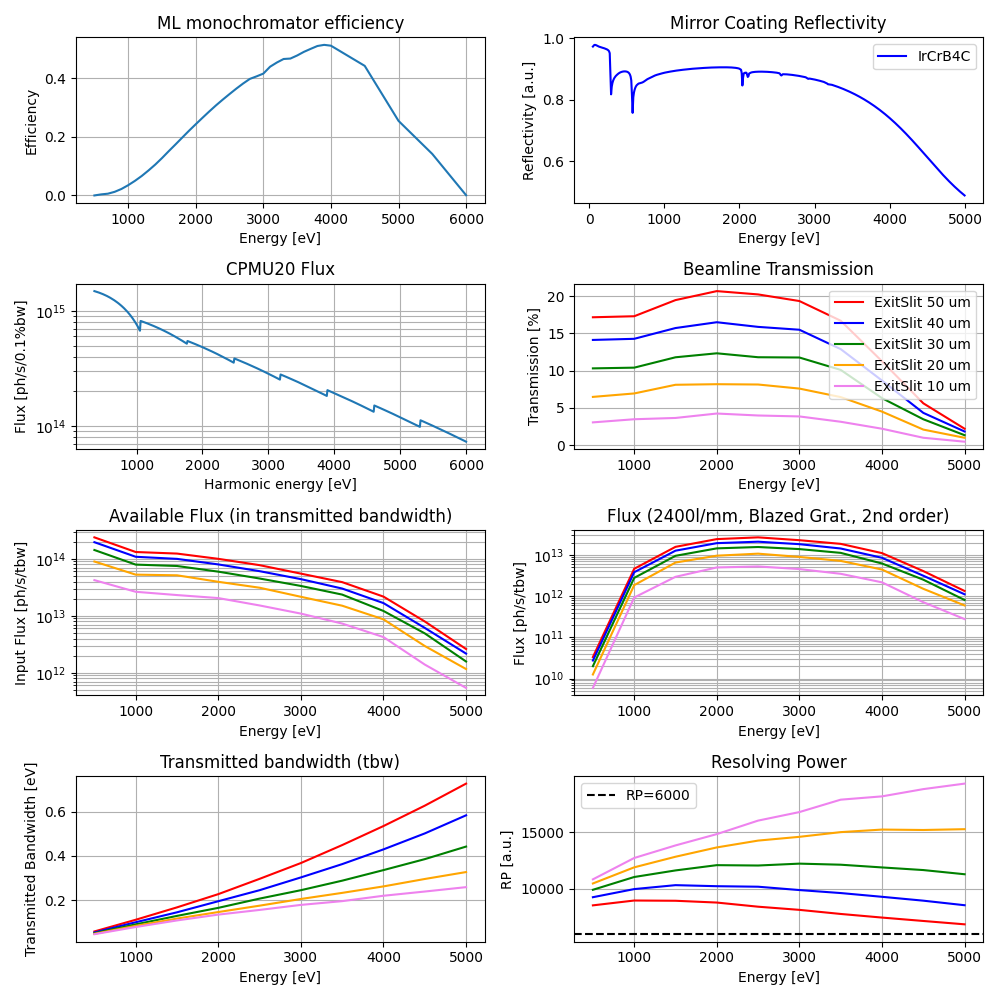
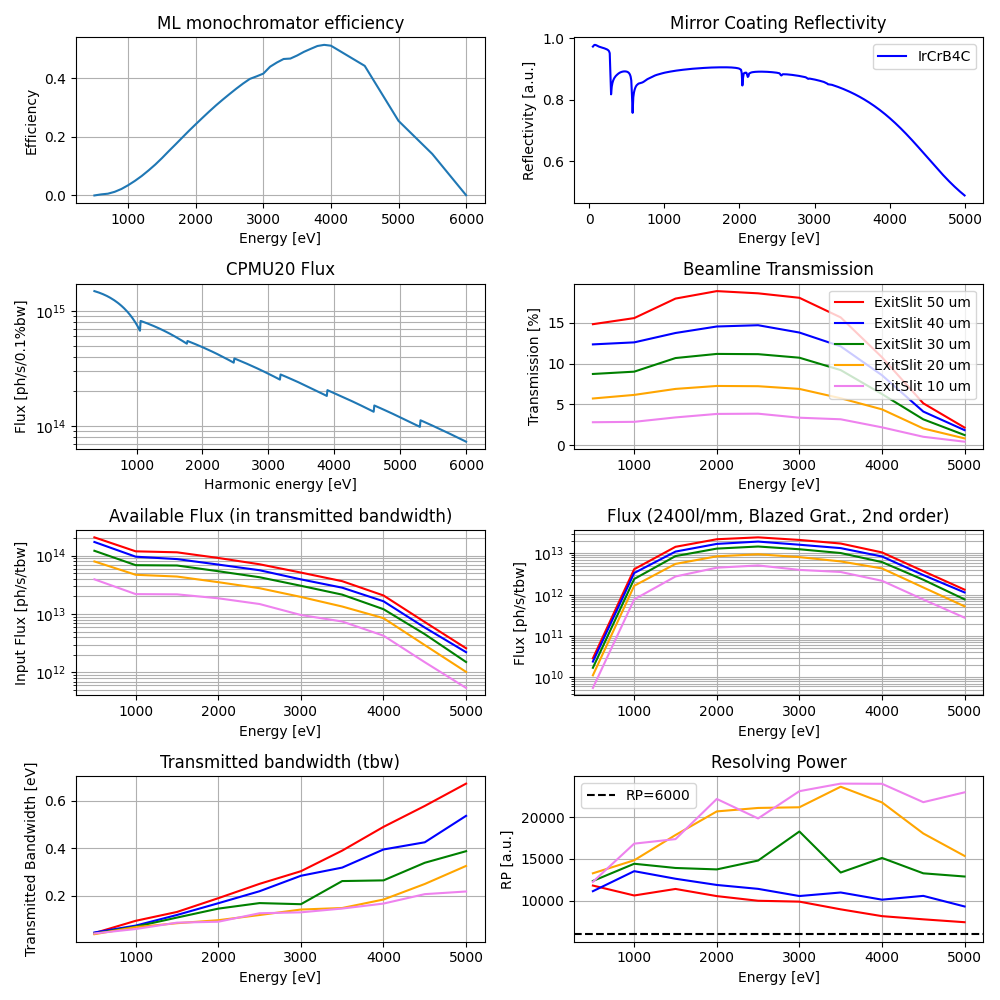
use parameter file for simulations

diff --git a/simulation/1/produce_plot.py b/simulation/1/produce_plot.py
@@ -14,7 +14,12 @@ from raypyng.postprocessing import PostProcessAnalyzed
 
 # from helper library
 from helper_lib import get_reflectivity
-from helper_lib import scale_undulator_flux, order
+from helper_lib import scale_undulator_flux, order as undulator_order
+
+
+from params import order as grating_order, energy_rp, energy_flux, SlitSize
+from params import index, repeat_rp, repeat_flux
+from params import ncpu_rp as ncpu
 
 # define undulator file
 undulator_file = os.path.join('undulator', 'CPMU20_B2l_k_dep_simp_all_harm_300mA.dbr')
@@ -30,38 +35,33 @@ ppa = PostProcessAnalyzed()
 folder_name  = 'RAYPy_Simulation_FLUX_battery_FLUX_forML_IrCrB4C'
 source       = 'CPMU20'
 oe           = 'DetectorAtFocus'
-energy    = np.arange(500,5001,500)
-SlitSize  = np.array([0.05,0.04,0.03,0.02,0.01])
-nsim      = energy.shape[0]*SlitSize.shape[0]
+nsim         = energy_flux.shape[0]*SlitSize.shape[0]
 
-flux_percent_unordered = ppa.retrieve_flux_beamline(folder_name, source, oe, nsim, rounds=1, current=0.3)
-flux_percent           = order(flux_percent_unordered)
+flux_percent_unordered = ppa.retrieve_flux_beamline(folder_name, source, oe, nsim, rounds=repeat_flux, current=0.3)
+flux_percent           = undulator_order(flux_percent_unordered)
 
-ens = energy.shape[0]
+ens = energy_flux.shape[0]
 flux_percent_50 = flux_percent[0*ens:1*ens]
 flux_percent_40 = flux_percent[1*ens:2*ens]
 flux_percent_30 = flux_percent[2*ens:3*ens]
 flux_percent_20 = flux_percent[3*ens:4*ens]
 flux_percent_10 = flux_percent[4*ens:5*ens]
 
-flux_abs_50 = scale_undulator_flux(energy,flux_percent_50, undulator_file)
-flux_abs_40 = scale_undulator_flux(energy,flux_percent_40, undulator_file)
-flux_abs_30 = scale_undulator_flux(energy,flux_percent_30, undulator_file)
-flux_abs_20 = scale_undulator_flux(energy,flux_percent_20, undulator_file)
-flux_abs_10 = scale_undulator_flux(energy,flux_percent_10, undulator_file)
+flux_abs_50 = scale_undulator_flux(energy_flux,flux_percent_50, undulator_file)
+flux_abs_40 = scale_undulator_flux(energy_flux,flux_percent_40, undulator_file)
+flux_abs_30 = scale_undulator_flux(energy_flux,flux_percent_30, undulator_file)
+flux_abs_20 = scale_undulator_flux(energy_flux,flux_percent_20, undulator_file)
+flux_abs_10 = scale_undulator_flux(energy_flux,flux_percent_10, undulator_file)
 
 ### ML RP
-energy_ml_rp = np.arange(500,5001,500)
-SlitSize  = np.array([0.05,0.04,0.03,0.02,0.01])
-rounds      = 10
 folder_name = 'RAYPy_Simulation_RP_battery_FLUX_forML_IrCrB4C'
 oe          = 'DetectorAtFocus'
-nsim      = energy_ml_rp.shape[0]*SlitSize.shape[0]
+nsim        = energy_rp.shape[0]*SlitSize.shape[0]
 
-bw_ML_2400_2_un, focx_ML_2400_2_un, focy_ML_2400_2_un = ppa.retrieve_bw_and_focusSize(folder_name, oe, nsim, rounds=rounds)
-bw_ML_2400_2 = order(bw_ML_2400_2_un)
-focx_ML_2400_2= order(focx_ML_2400_2_un)
-focy_ML_2400_2 = order(focy_ML_2400_2_un)
+bw_ML_2400_2_un, focx_ML_2400_2_un, focy_ML_2400_2_un = ppa.retrieve_bw_and_focusSize(folder_name, oe, nsim, rounds=repeat_rp)
+bw_ML_2400_2    = undulator_order(bw_ML_2400_2_un)
+focx_ML_2400_2  = undulator_order(focx_ML_2400_2_un)
+focy_ML_2400_2  = undulator_order(focy_ML_2400_2_un)
 
 # Undulator SPECTRA
 undulator = np.loadtxt(undulator_file, skiprows=8)
@@ -69,24 +69,24 @@ undulator = np.loadtxt(undulator_file, skiprows=8)
 
 # scaling
 flux_abs_50_MLBG_mfm_second = ML_eff(flux_abs_50, 
-                                    ind='MLBG_mfm_second', 
-                                    energy=energy,
+                                    ind=index, 
+                                    energy=energy_flux,
                                     grating_eff_file=grating_eff_file)
 flux_abs_40_MLBG_mfm_second = ML_eff(flux_abs_40, 
-                                    ind='MLBG_mfm_second', 
-                                    energy=energy,
+                                    ind=index, 
+                                    energy=energy_flux,
                                     grating_eff_file=grating_eff_file)
 flux_abs_30_MLBG_mfm_second = ML_eff(flux_abs_30, 
-                                    ind='MLBG_mfm_second', 
-                                    energy=energy,
+                                    ind=index, 
+                                    energy=energy_flux,
                                     grating_eff_file=grating_eff_file)
 flux_abs_20_MLBG_mfm_second = ML_eff(flux_abs_20, 
-                                    ind='MLBG_mfm_second', 
-                                    energy=energy,
+                                    ind=index, 
+                                    energy=energy_flux,
                                     grating_eff_file=grating_eff_file)
 flux_abs_10_MLBG_mfm_second = ML_eff(flux_abs_10, 
-                                    ind='MLBG_mfm_second', 
-                                    energy=energy,
+                                    ind=index, 
+                                    energy=energy_flux,
                                     grating_eff_file=grating_eff_file)
 
 
@@ -97,9 +97,9 @@ fig, (axs) = plt.subplots(4, 2,figsize=(10,10))
 
 # text
 ax = axs[0,0]
-en       = extract_from_Andrey('MLBG_mfm_second', 'energy', ML_eff_file)
-grat_eff = extract_from_Andrey('MLBG_mfm_second', 'grat_eff', ML_eff_file)
-mirr_eff = extract_from_Andrey('MLBG_mfm_second', 'mir_eff', ML_eff_file)
+en       = extract_from_Andrey(index, 'energy', ML_eff_file)
+grat_eff = extract_from_Andrey(index, 'grat_eff', ML_eff_file)
+mirr_eff = extract_from_Andrey(index, 'mir_eff', ML_eff_file)
 eff = grat_eff*mirr_eff
 ax.plot(en, eff)
 ax.set_ylabel('Efficiency')
@@ -141,11 +141,11 @@ ax.set_title('CPMU20 Flux')
 
 # PERCENTAGE FLUX
 ax = axs[1,1]
-ax.plot(energy,flux_percent_50, 'r', label='ExitSlit 50 um' )
-ax.plot(energy,flux_percent_40, 'b', label='ExitSlit 40 um' )
-ax.plot(energy,flux_percent_30, 'g', label='ExitSlit 30 um' )
-ax.plot(energy,flux_percent_20, 'orange', label='ExitSlit 20 um' )
-ax.plot(energy,flux_percent_10, 'violet', label='ExitSlit 10 um' )
+ax.plot(energy_flux,flux_percent_50, 'r', label='ExitSlit 50 um' )
+ax.plot(energy_flux,flux_percent_40, 'b', label='ExitSlit 40 um' )
+ax.plot(energy_flux,flux_percent_30, 'g', label='ExitSlit 30 um' )
+ax.plot(energy_flux,flux_percent_20, 'orange', label='ExitSlit 20 um' )
+ax.plot(energy_flux,flux_percent_10, 'violet', label='ExitSlit 10 um' )
 
 ax.set_xlabel(r'Energy [eV]')
 ax.set_ylabel('Transmission [%]')
@@ -157,11 +157,11 @@ ax.legend()
 # ABSOLUTE FLUX
 ax = axs[2,0]
 
-ax.plot(energy,flux_abs_50, 'r', label='ExitSlit 50 um' )
-ax.plot(energy,flux_abs_40, 'b', label='ExitSlit 40 um' )
-ax.plot(energy,flux_abs_30, 'g', label='ExitSlit 30 um' )
-ax.plot(energy,flux_abs_20, 'orange', label='ExitSlit 20 um' )
-ax.plot(energy,flux_abs_10, 'violet', label='ExitSlit 10 um' )
+ax.plot(energy_flux,flux_abs_50, 'r', label='ExitSlit 50 um' )
+ax.plot(energy_flux,flux_abs_40, 'b', label='ExitSlit 40 um' )
+ax.plot(energy_flux,flux_abs_30, 'g', label='ExitSlit 30 um' )
+ax.plot(energy_flux,flux_abs_20, 'orange', label='ExitSlit 20 um' )
+ax.plot(energy_flux,flux_abs_10, 'violet', label='ExitSlit 10 um' )
 
 ax.set_xlabel(r'Energy [eV]')
 ax.set_ylabel('Input Flux [ph/s/tbw]')
@@ -173,11 +173,11 @@ ax.grid(which='both', axis='both')
 # ABSOLUTE FLUX SCALED WITH ML EFF.
 ax = axs[2,1]
 
-ax.plot(energy,flux_abs_50_MLBG_mfm_second, 'r', label='ExitSlit 50 um' )
-ax.plot(energy,flux_abs_40_MLBG_mfm_second, 'b', label='ExitSlit 40 um' )
-ax.plot(energy,flux_abs_30_MLBG_mfm_second, 'g', label='ExitSlit 30 um' )
-ax.plot(energy,flux_abs_20_MLBG_mfm_second, 'orange', label='ExitSlit 20 um' )
-ax.plot(energy,flux_abs_10_MLBG_mfm_second, 'violet', label='ExitSlit 10 um' )
+ax.plot(energy_flux,flux_abs_50_MLBG_mfm_second, 'r', label='ExitSlit 50 um' )
+ax.plot(energy_flux,flux_abs_40_MLBG_mfm_second, 'b', label='ExitSlit 40 um' )
+ax.plot(energy_flux,flux_abs_30_MLBG_mfm_second, 'g', label='ExitSlit 30 um' )
+ax.plot(energy_flux,flux_abs_20_MLBG_mfm_second, 'orange', label='ExitSlit 20 um' )
+ax.plot(energy_flux,flux_abs_10_MLBG_mfm_second, 'violet', label='ExitSlit 10 um' )
 
 ax.set_xlabel(r'Energy [eV]')
 ax.set_ylabel('Flux [ph/s/tbw]')
@@ -188,12 +188,12 @@ ax.grid(which='both', axis='both')
 
 # BANDWIDTH
 ax = axs[3,0]
-ss = energy_ml_rp.shape[0]
-ax.plot(energy_ml_rp,bw_ML_2400_2[0*ss:1*ss],'r',label='ExitSlit 50 um')
-ax.plot(energy_ml_rp,bw_ML_2400_2[1*ss:2*ss],'b',label='ExitSlit 40 um')
-ax.plot(energy_ml_rp,bw_ML_2400_2[2*ss:3*ss],'g',label='ExitSlit 30 um')
-ax.plot(energy_ml_rp,bw_ML_2400_2[3*ss:4*ss],'orange',label='ExitSlit 20 um')
-ax.plot(energy_ml_rp,bw_ML_2400_2[4*ss:5*ss],'violet',label='ExitSlit 10 um')
+ss = energy_rp.shape[0]
+ax.plot(energy_rp,bw_ML_2400_2[0*ss:1*ss],'r',label='ExitSlit 50 um')
+ax.plot(energy_rp,bw_ML_2400_2[1*ss:2*ss],'b',label='ExitSlit 40 um')
+ax.plot(energy_rp,bw_ML_2400_2[2*ss:3*ss],'g',label='ExitSlit 30 um')
+ax.plot(energy_rp,bw_ML_2400_2[3*ss:4*ss],'orange',label='ExitSlit 20 um')
+ax.plot(energy_rp,bw_ML_2400_2[4*ss:5*ss],'violet',label='ExitSlit 10 um')
 
 
 ax.set_xlabel('Energy [eV]')
@@ -205,12 +205,12 @@ ax.grid(which='both', axis='both')
 
 # RESOLVING POWER
 ax = axs[3,1]
-ss = energy_ml_rp.shape[0]
-ax.plot(energy_ml_rp,energy_ml_rp/bw_ML_2400_2[0*ss:1*ss],'r')#,label='ExitSlit 50 um')
-ax.plot(energy_ml_rp,energy_ml_rp/bw_ML_2400_2[1*ss:2*ss],'b')#,label='ExitSlit 40 um')
-ax.plot(energy_ml_rp,energy_ml_rp/bw_ML_2400_2[2*ss:3*ss],'g')#,label='ExitSlit 30 um')
-ax.plot(energy_ml_rp,energy_ml_rp/bw_ML_2400_2[3*ss:4*ss],'orange')#,label='ExitSlit 20 um')
-ax.plot(energy_ml_rp,energy_ml_rp/bw_ML_2400_2[4*ss:5*ss],'violet')#,label='ExitSlit 10 um')
+ss = energy_rp.shape[0]
+ax.plot(energy_rp,energy_rp/bw_ML_2400_2[0*ss:1*ss],'r')#,label='ExitSlit 50 um')
+ax.plot(energy_rp,energy_rp/bw_ML_2400_2[1*ss:2*ss],'b')#,label='ExitSlit 40 um')
+ax.plot(energy_rp,energy_rp/bw_ML_2400_2[2*ss:3*ss],'g')#,label='ExitSlit 30 um')
+ax.plot(energy_rp,energy_rp/bw_ML_2400_2[3*ss:4*ss],'orange')#,label='ExitSlit 20 um')
+ax.plot(energy_rp,energy_rp/bw_ML_2400_2[4*ss:5*ss],'violet')#,label='ExitSlit 10 um')
 
 ax.axhline(y=6000, color='k', linestyle='dashed', label='RP=6000')
 
@@ -231,11 +231,11 @@ fig, (axs) = plt.subplots(1, 2,figsize=(10,10))
 # HORIZONTAL FOCUS
 ax = axs[0]
 focx_ML_2400_2 = focx_ML_2400_2*1000 # in micrometer
-ax.plot(energy_ml_rp, focx_ML_2400_2[0*ss:1*ss], 'r', label='ExitSlit 50 um')
-ax.plot(energy_ml_rp, focx_ML_2400_2[1*ss:2*ss], 'b', label='ExitSlit 40 um')
-ax.plot(energy_ml_rp, focx_ML_2400_2[2*ss:3*ss], 'g', label='ExitSlit 30 um')
-ax.plot(energy_ml_rp, focx_ML_2400_2[3*ss:4*ss], 'violet', label='ExitSlit 20 um')
-ax.plot(energy_ml_rp, focx_ML_2400_2[4*ss:5*ss], 'orange', label='ExitSlit 10 um')
+ax.plot(energy_rp, focx_ML_2400_2[0*ss:1*ss], 'r', label='ExitSlit 50 um')
+ax.plot(energy_rp, focx_ML_2400_2[1*ss:2*ss], 'b', label='ExitSlit 40 um')
+ax.plot(energy_rp, focx_ML_2400_2[2*ss:3*ss], 'g', label='ExitSlit 30 um')
+ax.plot(energy_rp, focx_ML_2400_2[3*ss:4*ss], 'violet', label='ExitSlit 20 um')
+ax.plot(energy_rp, focx_ML_2400_2[4*ss:5*ss], 'orange', label='ExitSlit 10 um')
 
 ax.set_xlabel('Energy [eV]')
 ax.set_ylabel('Focus Size [um]')
@@ -245,11 +245,11 @@ ax.legend()
 # VERTICAL FOCUS
 ax = axs[1]
 focy_ML_2400_2 = focy_ML_2400_2*1000 # in micrometer
-ax.plot(energy_ml_rp, focy_ML_2400_2[0*ss:1*ss], 'r', label='ExitSlit 50 um')
-ax.plot(energy_ml_rp, focy_ML_2400_2[1*ss:2*ss], 'b', label='ExitSlit 40 um')
-ax.plot(energy_ml_rp, focy_ML_2400_2[2*ss:3*ss], 'g', label='ExitSlit 30 um')
-ax.plot(energy_ml_rp, focy_ML_2400_2[3*ss:4*ss], 'violet', label='ExitSlit 20 um')
-ax.plot(energy_ml_rp, focy_ML_2400_2[4*ss:5*ss], 'orange', label='ExitSlit 10 um')
+ax.plot(energy_rp, focy_ML_2400_2[0*ss:1*ss], 'r', label='ExitSlit 50 um')
+ax.plot(energy_rp, focy_ML_2400_2[1*ss:2*ss], 'b', label='ExitSlit 40 um')
+ax.plot(energy_rp, focy_ML_2400_2[2*ss:3*ss], 'g', label='ExitSlit 30 um')
+ax.plot(energy_rp, focy_ML_2400_2[3*ss:4*ss], 'violet', label='ExitSlit 20 um')
+ax.plot(energy_rp, focy_ML_2400_2[4*ss:5*ss], 'orange', label='ExitSlit 10 um')
 
 ax.set_xlabel('Energy [eV]')
 ax.set_ylabel('Focus Size [um]')

diff --git a/simulation/1/simulation_RP_ML_2400_secondOrder.py b/simulation/1/simulation_RP_ML_2400_secondOrder.py
@@ -3,6 +3,10 @@ import numpy as np
 import os
 from andrey_lib import AndreyML
 
+from params import order, energy_rp as energy, SlitSize
+from params import nrays_rp as nrays, index, repeat_rp as repeat
+from params import ncpu_rp as ncpu
+
 this_file_dir=os.path.dirname(os.path.realpath(__file__))
 rml_file_name = 'battery_FLUX_forML_IrCrB4C'
 rml_file = os.path.join('rml/'+rml_file_name+'.rml')
@@ -12,18 +16,10 @@ sim = Simulate(rml_file, hide=True)
 rml=sim.rml
 beamline = sim.rml.beamline
 
-# cpu
-ncpu=20
-
-# define the values of the parameters to scan 
-order     = 2
-energy    = np.arange(500, 5001,500)
-SlitSize  = np.array([0.05,0.04,0.03,0.02,0.01])
-nrays     = 1000000 
 
 # Andrey ML
 aml = AndreyML(excel_file_name=os.path.join('ML_eff','grating_eff_5000.xlsx'))
-cff = aml.get_cff_for_ML(ind='MLBG_mfm_first', order=2, energy=np.arange(500, 5001,500))
+cff = aml.get_cff_for_ML(ind=index, order=order, energy=energy)
 # define a list of dictionaries with the parameters to scan
 params = [  
             # set two parameters: "alpha" and "beta" in a dependent way. 
@@ -45,7 +41,7 @@ sim.simulation_name = 'RP_'+rml_file_name
 # turn off reflectivity
 sim.reflectivity(reflectivity=False)
 # repeat the simulations as many time as needed
-sim.repeat = 10
+sim.repeat = repeat
 
 sim.analyze = True # let RAY-UI analyze the results
 ## This must be a list of dictionaries

diff --git a/simulation/1/simulation_Flux_ML_2400_secondOrder.py b/simulation/1/simulation_Flux_ML_2400_secondOrder.py
@@ -3,6 +3,11 @@ import numpy as np
 import os
 from andrey_lib import AndreyML
 
+from params import order, energy_flux as energy, SlitSize
+from params import nrays_flux as nrays, index, repeat_flux as repeat
+from params import ncpu_rp as ncpu
+
+
 this_file_dir=os.path.dirname(os.path.realpath(__file__))
 rml_file_name = 'battery_FLUX_forML_IrCrB4C'
 rml_file = os.path.join('rml/'+rml_file_name+'.rml')
@@ -12,18 +17,10 @@ sim = Simulate(rml_file, hide=True)
 rml=sim.rml
 beamline = sim.rml.beamline
 
-# cpu
-ncpu=10
-
-# define the values of the parameters to scan 
-order     = 2
-energy    = np.arange(500, 5001,500)
-SlitSize  = np.array([0.05,0.04,0.03,0.02,0.01])
-nrays     = 50000
 
 # Andrey ML
 aml = AndreyML(excel_file_name=os.path.join('ML_eff','grating_eff_5000.xlsx'))
-cff = aml.get_cff_for_ML(ind='MLBG_mfm_first', order=2, energy=np.arange(500, 5001,500))
+cff = aml.get_cff_for_ML(ind=index, order=order, energy=energy)
 # define a list of dictionaries with the parameters to scan
 params = [  
             # set two parameters: "alpha" and "beta" in a dependent way. 
@@ -43,7 +40,7 @@ sim.params=params
 sim.simulation_name = 'FLUX_'+rml_file_name
 
 # repeat the simulations as many time as needed
-sim.repeat = 1
+sim.repeat = repeat
 
 sim.analyze = True # let RAY-UI analyze the results
 ## This must be a list of dictionaries

diff --git a/simulation/1/params.py b/simulation/1/params.py
@@ -1,0 +1,13 @@
+import numpy as np
+
+order       = 2
+energy_flux = np.arange(500, 5001,500)
+energy_rp   = np.arange(500, 5001,500)
+SlitSize    = np.array([0.05,0.04,0.03,0.02,0.01])
+nrays_flux  = 50000
+nrays_rp    = 50000
+index       = 'MLBG_mfm_second'
+repeat_flux = 1
+repeat_rp   = 1
+ncpu_flux   = 10
+ncpu_rp     = 10
